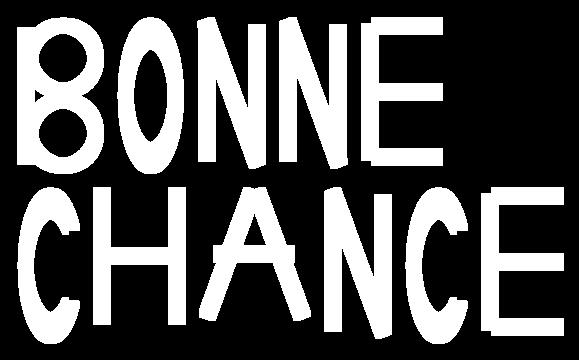
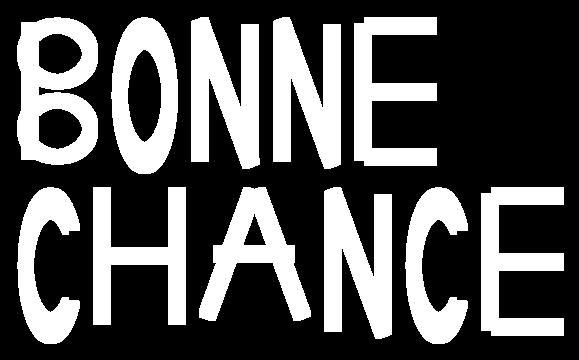
all test are good; tesseract recognizes text

diff --git a/src/main/java/Letter/LetterFactory.java b/src/main/java/Letter/LetterFactory.java
@@ -19,8 +19,6 @@ public final class LetterFactory {
      * @return BaseShape containing the letter A
      */
     public static BaseShape create_A() {
-        // return null;
-
         double width = halfMaxWidth - stripeThickness;
         double height = maxHeight - stripeThickness;
 
@@ -28,11 +26,9 @@ public final class LetterFactory {
         BaseShape right = new Rectangle(width, height);
         BaseShape middle = new Rectangle(halfMaxHeight, width);
 
-        // rotate left and right
         left = new BaseShape(left.rotate(left.getCoords(), Math.toRadians(20)));
         right = new BaseShape(right.rotate(right.getCoords(), Math.toRadians(-20)));
 
-        // translate left and right
         left = new BaseShape(left.translate(left.getCoords(), new Point2d(-halfMaxHeight / 3, 0.0)));
         right = new BaseShape(right.translate(right.getCoords(), new Point2d(halfMaxHeight / 3, 0.0)));
 
@@ -49,25 +45,21 @@ public final class LetterFactory {
      * @return BaseShape containing the letter B
      */
     public static BaseShape create_B() {
-        // return null;
-        double width = halfMaxWidth - stripeThickness;
-        double height = maxHeight - stripeThickness;
+        double circleWidth = halfMaxHeight;
+        double circleHeight = (maxHeight-stripeThickness)/2;
 
-        // create one reactangle and 2 ellipses
-        BaseShape left = new Rectangle(width, height);
-        BaseShape top = new Circle(halfMaxHeight);
-        BaseShape bottom = new Circle(halfMaxHeight);
+        BaseShape left = new Rectangle(halfMaxWidth-stripeThickness, maxHeight-stripeThickness);
+        BaseShape top = new Ellipse(circleWidth, circleHeight);
+        BaseShape bottom = new Ellipse(circleWidth, circleHeight);
 
-        top.remove(new Circle(halfMaxHeight - stripeThickness));
-        bottom.remove(new Circle(halfMaxHeight - stripeThickness));
+        top.remove(new Ellipse(circleWidth-stripeThickness, circleHeight-stripeThickness));
+        bottom.remove(new Ellipse(circleWidth-stripeThickness, circleHeight-stripeThickness));
 
-        // translate the shapes to the correct position
         top = new BaseShape(top.translate(top.getCoords(), new Point2d(0.0, halfMaxHeight / 2)));
         bottom = new BaseShape(
-                bottom.translate(bottom.getCoords(), new Point2d(0.0, -halfMaxHeight / 2)));
-        left = new BaseShape(left.translate(left.getCoords(), new Point2d(-halfMaxHeight / 2, 0.0)));
+                bottom.translate(bottom.getCoords(), new Point2d(0.0, -(halfMaxHeight) / 2)));
+        left = new BaseShape(left.translate(left.getCoords(), new Point2d(-(circleWidth-stripeThickness)/2, 0.0)));
 
-        // create the letter B
         BaseShape letterB = new BaseShape();
         letterB.add(left).add(top).add(bottom);
 
@@ -102,7 +94,6 @@ public final class LetterFactory {
      * @return BaseShape containing the letter E
      */
     public static BaseShape create_E() {
-        // return null;
         double width = halfMaxWidth - stripeThickness;
         double height = maxHeight - stripeThickness;
 
@@ -159,7 +150,6 @@ public final class LetterFactory {
      * @return BaseShape containing the letter N
      */
     public static BaseShape create_N() {
-        // return null;
         double width = halfMaxWidth - stripeThickness;
         double height = maxHeight - stripeThickness;
 
